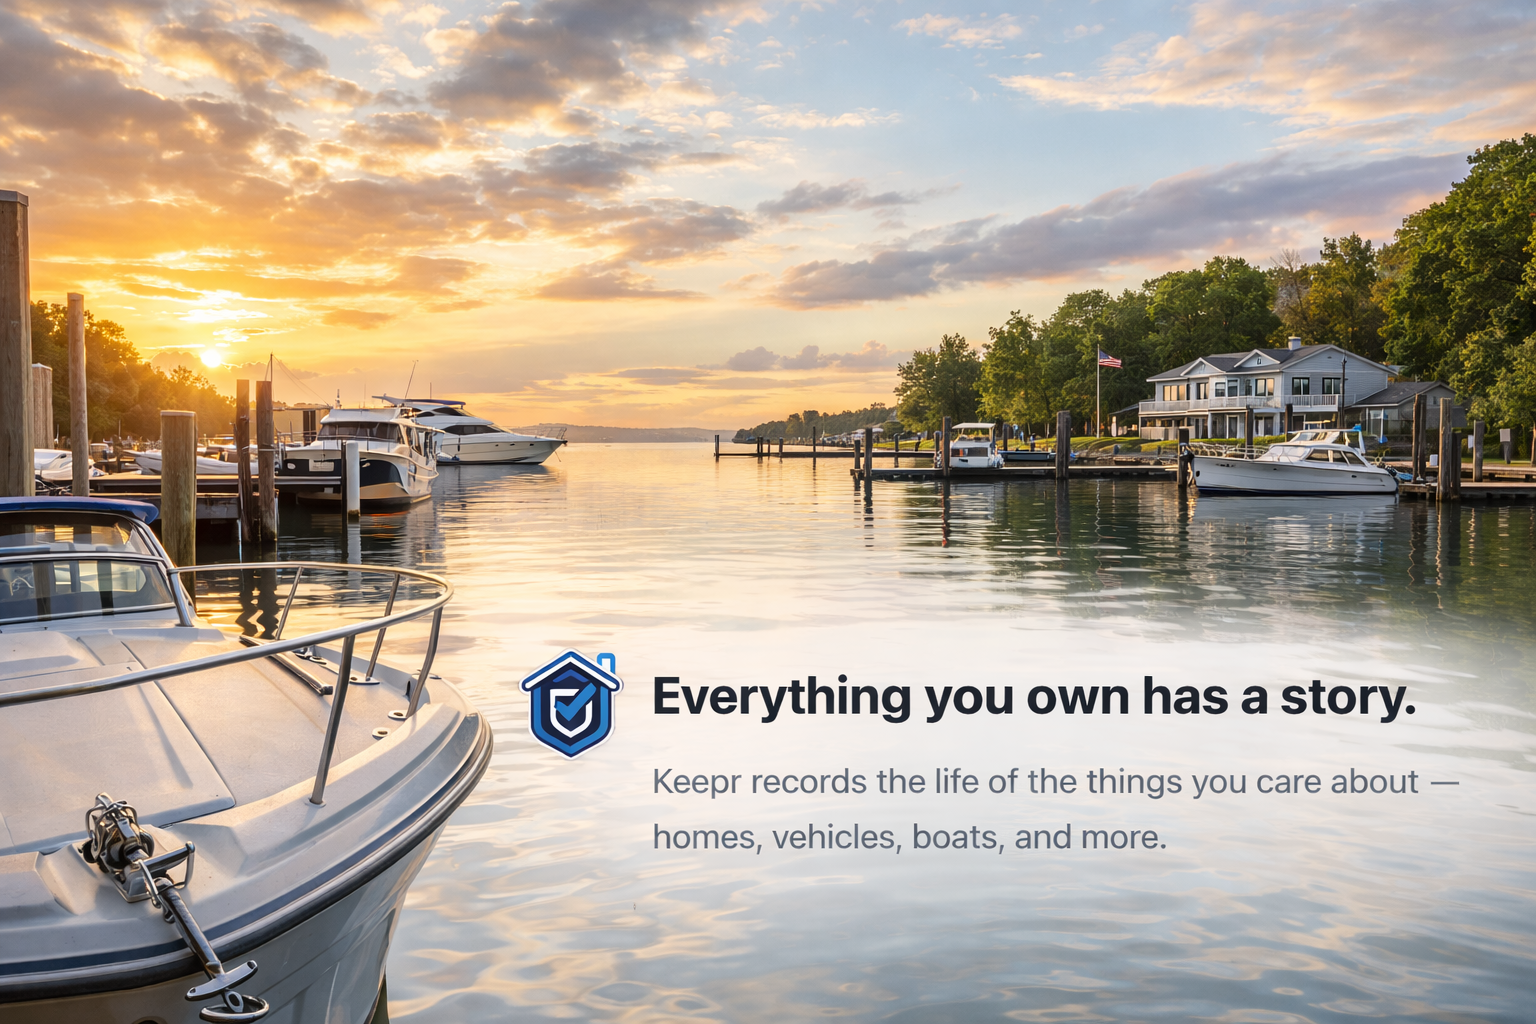
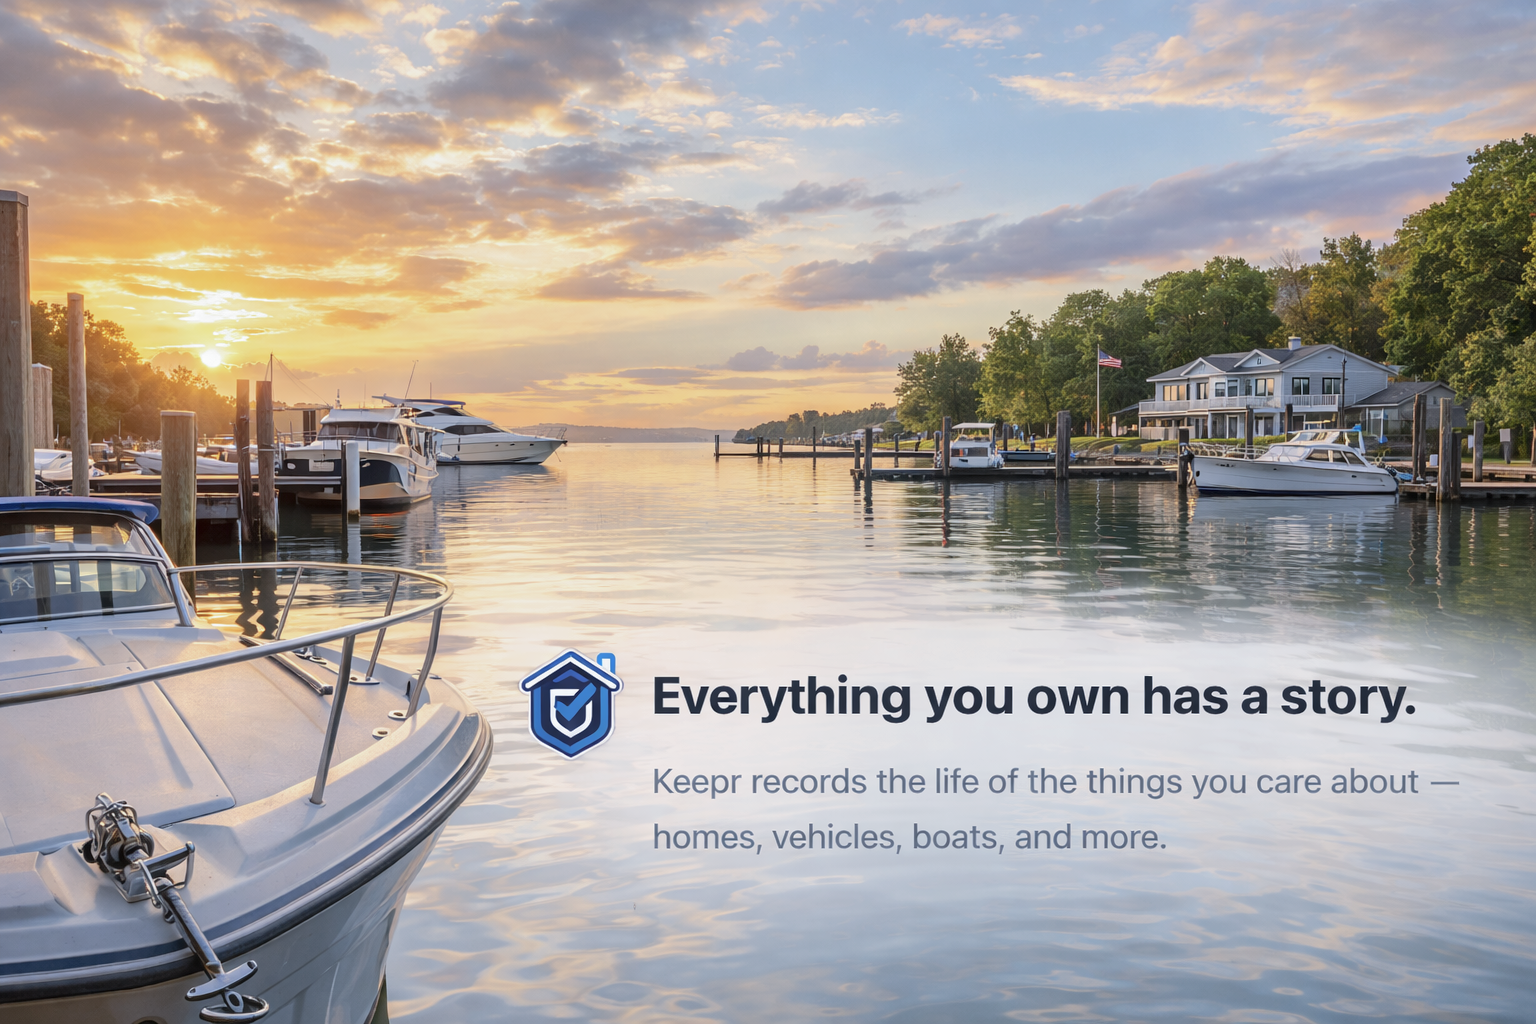
dialing in IOS build

diff --git a/screens/AuthScreen.js b/screens/AuthScreen.js
@@ -246,7 +246,7 @@ export default function AuthScreen() {
       <View style={styles.brandContent}>
           <Image
             source={require("../assets/login_image_keepr.png")}
-            style={{ width: 400, height: 250, marginBottom: 24 }}
+            style={{ width: 440, height: 275, marginBottom: 24 }}
           />
           <Text style={styles.brandHeadline}>
             Everything you own has a story.
@@ -280,11 +280,17 @@ export default function AuthScreen() {
 
         <Text style={styles.title}>{title}</Text>
         <Text style={styles.subtitle}>
-          {isSignUp
-            ? "Create your Keepr™ account and start building the story of what you own."
+          {Platform.OS === "web"
+            ? isSignUp
+              ? "Create your Keepr™ account and start building the story of what you own."
+              : isForgot
+              ? "Enter your email and we’ll send a reset link."
+              : ""
+            : isSignUp
+            ? "Get started."
             : isForgot
-            ? "Enter your email and we’ll send a reset link."
-            : "Welcome back. Sign in to continue your Keepr™ story."}
+            ? "Enter your email to reset your password."
+            : "Continue your ownership story."}
         </Text>
       </View>
 
@@ -314,7 +320,7 @@ export default function AuthScreen() {
               activeOpacity={0.9}
             >
               <Text style={[styles.modePillText, mode === "signup" && styles.modePillTextActive]}>
-                Create your Account
+                Create Account
               </Text>
             </TouchableOpacity>
           </View>
@@ -418,6 +424,7 @@ export default function AuthScreen() {
               <Text style={styles.forgotLinkText}>Forgot password?</Text>
             </TouchableOpacity>
           ) : (
+            
             <TouchableOpacity
               style={styles.forgotLink}
               onPress={() => {
@@ -430,15 +437,23 @@ export default function AuthScreen() {
               <Text style={styles.forgotLinkText}>Back to sign in</Text>
             </TouchableOpacity>
           )}
-
-          <Text style={styles.helperText}>
-            Tip: You will be able to change your email and password in Keepr™ later.
-          </Text>
-          <Text style={styles.trustText}>
-            We do not share your data.  
-            We do not use your data to train our system.  
-            You own what you put in.
+<Text style={styles.helperText}>
+  Great for quick capture and action.{" "}
+  <Text style={{ fontWeight: "600" }}>
+    Use Keepr on web for deeper setup and organization.
+  </Text>
+</Text>
+        {Platform.OS === "web" && (
+          <>
+            <Text style={styles.helperText}>
+              Tip: You will be able to change your email and password later.
             </Text>
+
+            <Text style={styles.trustText}>
+              We do not share your data. We do not use your data to train our system.
+            </Text>
+          </>
+        )}
         </View>
       </View>
       </View>
@@ -477,7 +492,7 @@ const styles = StyleSheet.create({
   authCard: {
   width: "100%",
   maxWidth: 760,
-  minWidth: 420,
+  minWidth: 320,
   alignSelf: "center",
   backgroundColor: "#FFFFFF",
   borderRadius: 20,
@@ -555,13 +570,6 @@ brandSub: {
   fontSize: 12,
   color: colors.textMuted,
   marginTop: 2,
-},
-
-  brand: {
-  fontSize: 16,
-  fontWeight: "800",
-  color: colors.brandBlue,
-  marginBottom: 4,
 },
 
 trustText: {

diff --git a/App.js b/App.js
@@ -1043,8 +1043,11 @@ React.useEffect(() => {
           .single();
 
         const { count: aCount, error: aErr } = await supabase
-          .from("assets")
-          .select("id", { count: "exact", head: true });
+      .from("assets")
+      .select("id", { count: "exact", head: true })
+      .eq("owner_id", user.id)
+      .is("deleted_at", null)
+      .eq("status", "active");
 
         if (!mounted) return;
 if (error || aErr) {
@@ -1054,19 +1057,13 @@ if (error || aErr) {
     aErr?.message || aErr
   );
 
-  // ✅ Do NOT force onboarding on transient DB/RLS/session timing issues
-  // Leave unresolved so Splash stays up and we retry.
-  setRole(null);
-  setOnboardingState(null);
-  setAssetCount(null);
-
-  // retry once shortly after (session often hydrates right after first render)
-  setTimeout(() => {
-        if (mounted) loadRole("retry", { force: true });
-  }, 400);
-
-  return;
-    }
+  // Store-safe fallback: do not deadlock behind splash
+  setRole("consumer");
+setOnboardingState("not_started");
+setAssetCount(0);
+setLoadingRole(false);
+return;
+}
 
     setRole(data?.role || "consumer");
     setOnboardingState((data?.onboarding_state || "not_started").toLowerCase());
@@ -1077,16 +1074,10 @@ if (error || aErr) {
   console.log("PROFILE ROLE LOAD EXCEPTION:", e?.message || e);
   if (!mounted) return;
 
-  // Do NOT force onboarding.
-  // Reset to unresolved and retry once.
-  setRole(null);
-  setOnboardingState(null);
-  setAssetCount(null);
-
-  setTimeout(() => {
-        if (mounted) loadRole("retry", { force: true });
-  }, 400);
-
+  // Store-safe fallback: do not deadlock behind splash
+  setRole("consumer");
+  setOnboardingState("not_started");
+  setAssetCount(0);
   return;
 } finally {
   if (!mounted) return;
